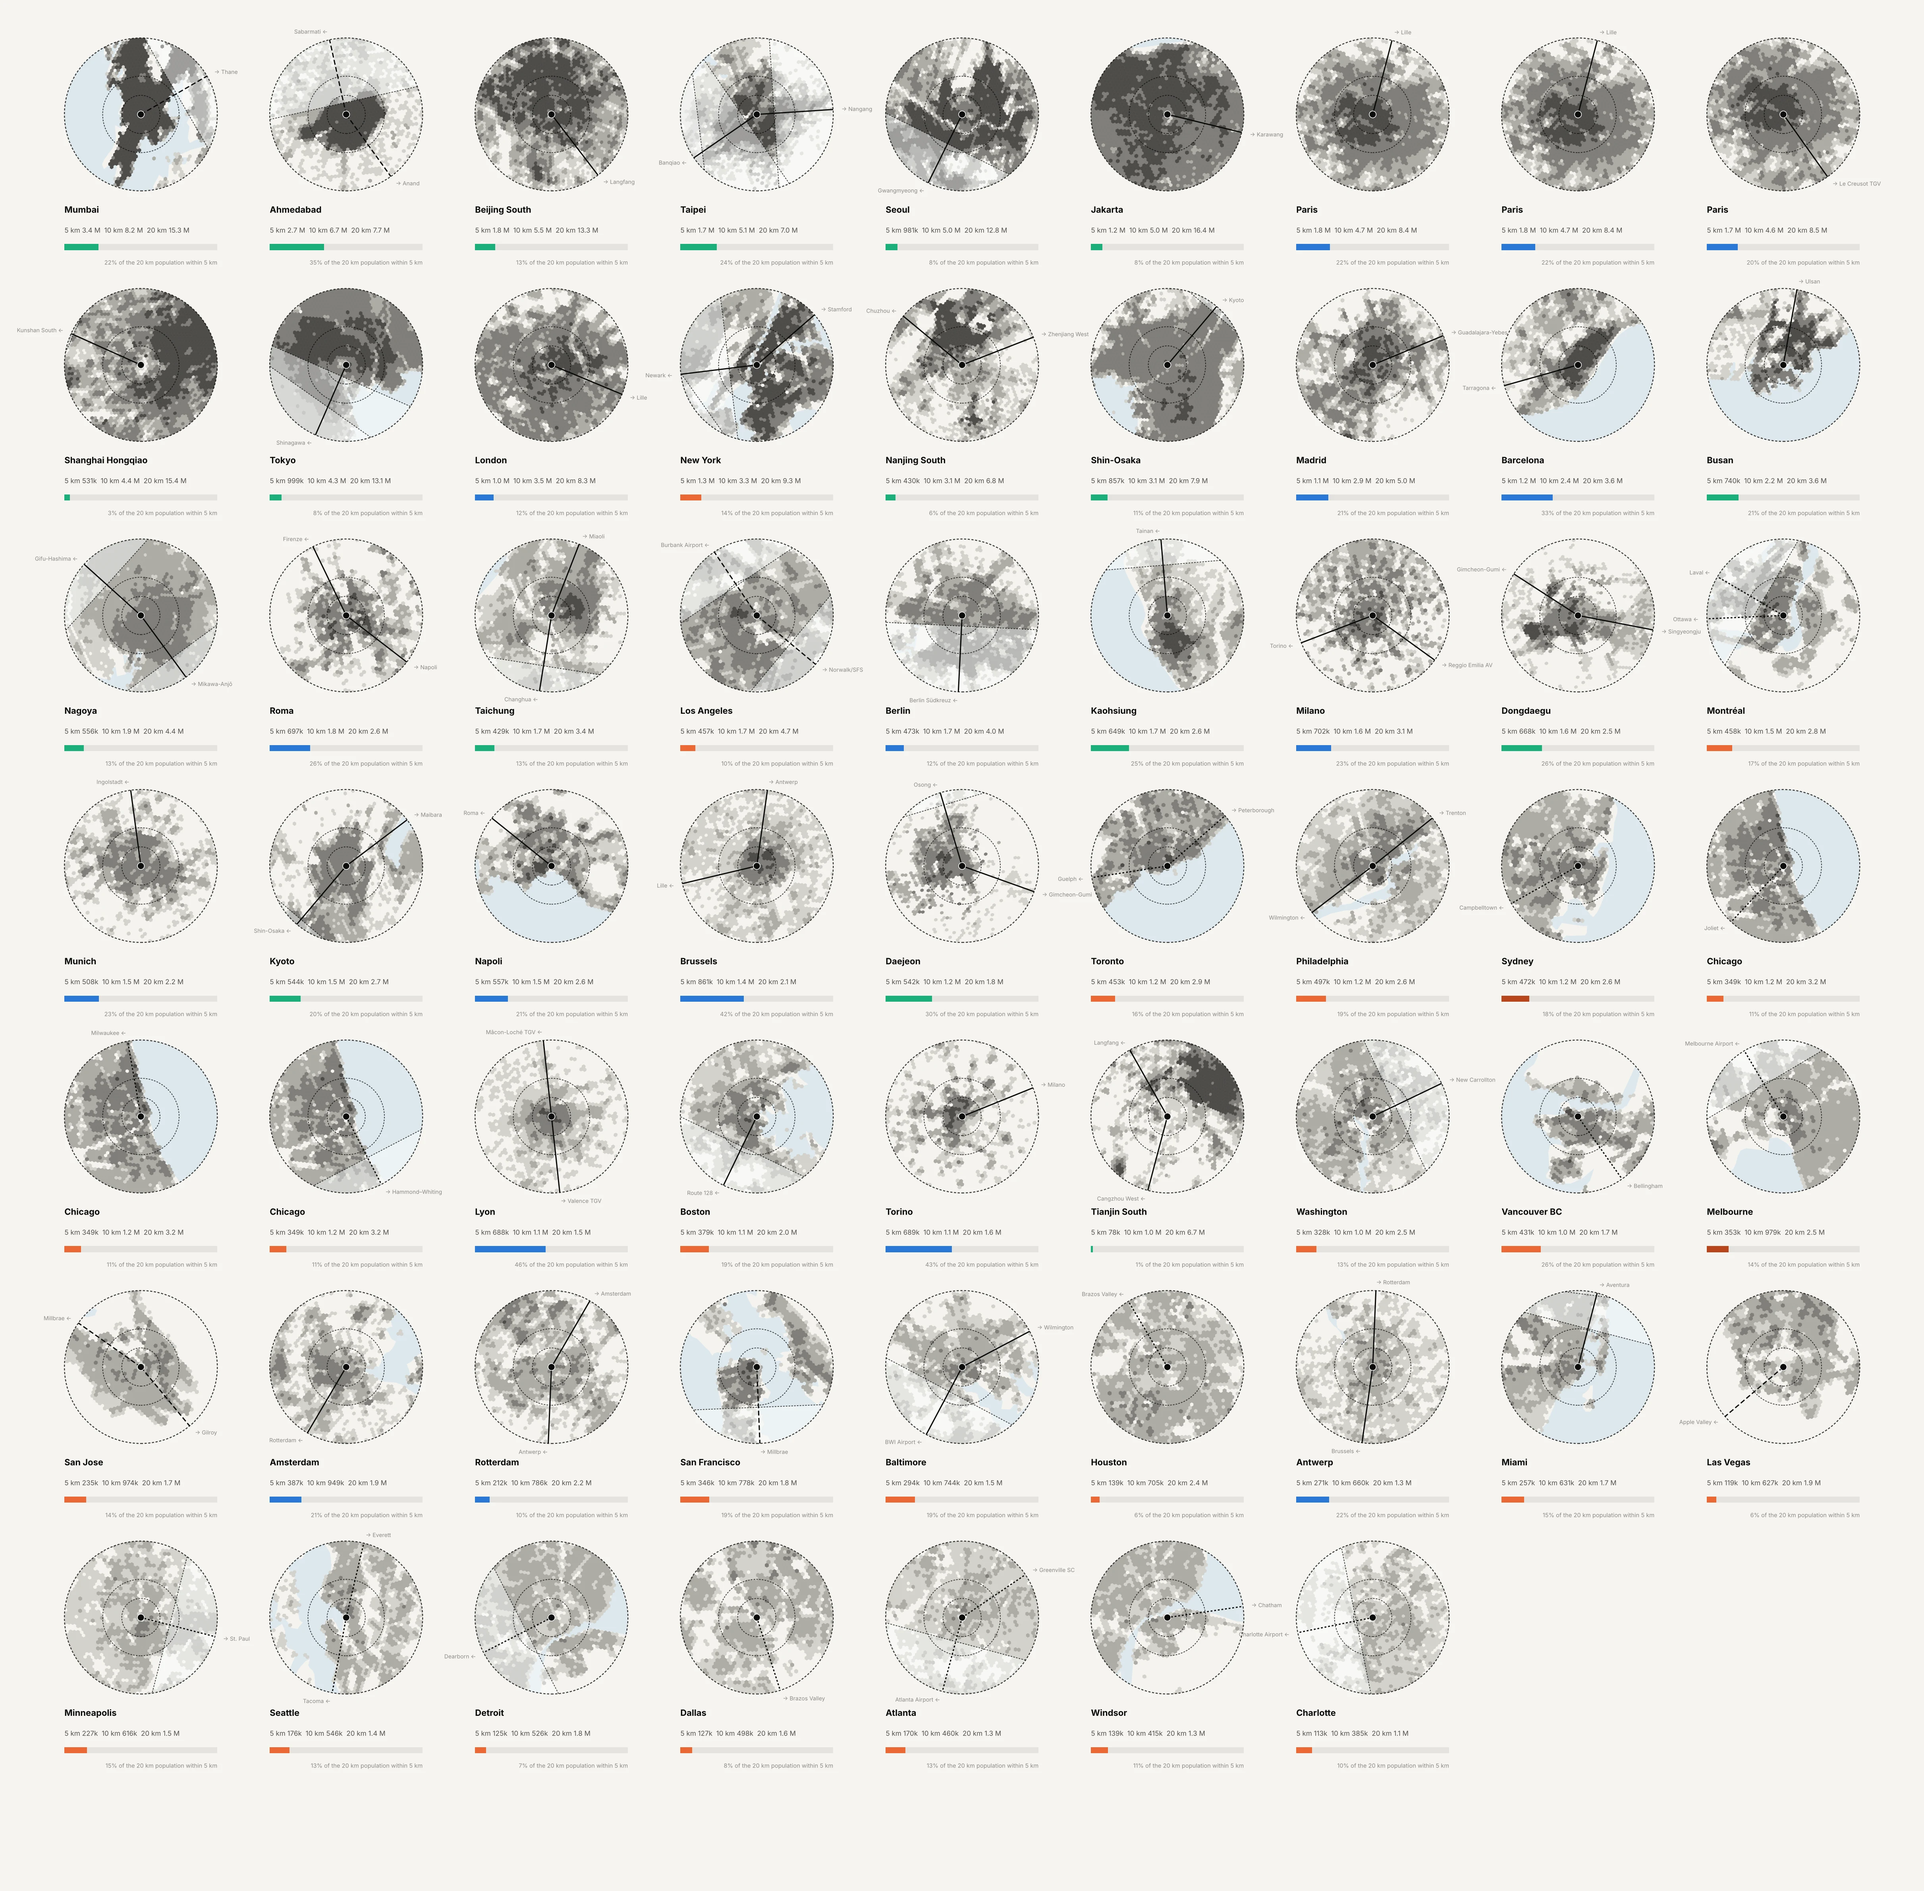
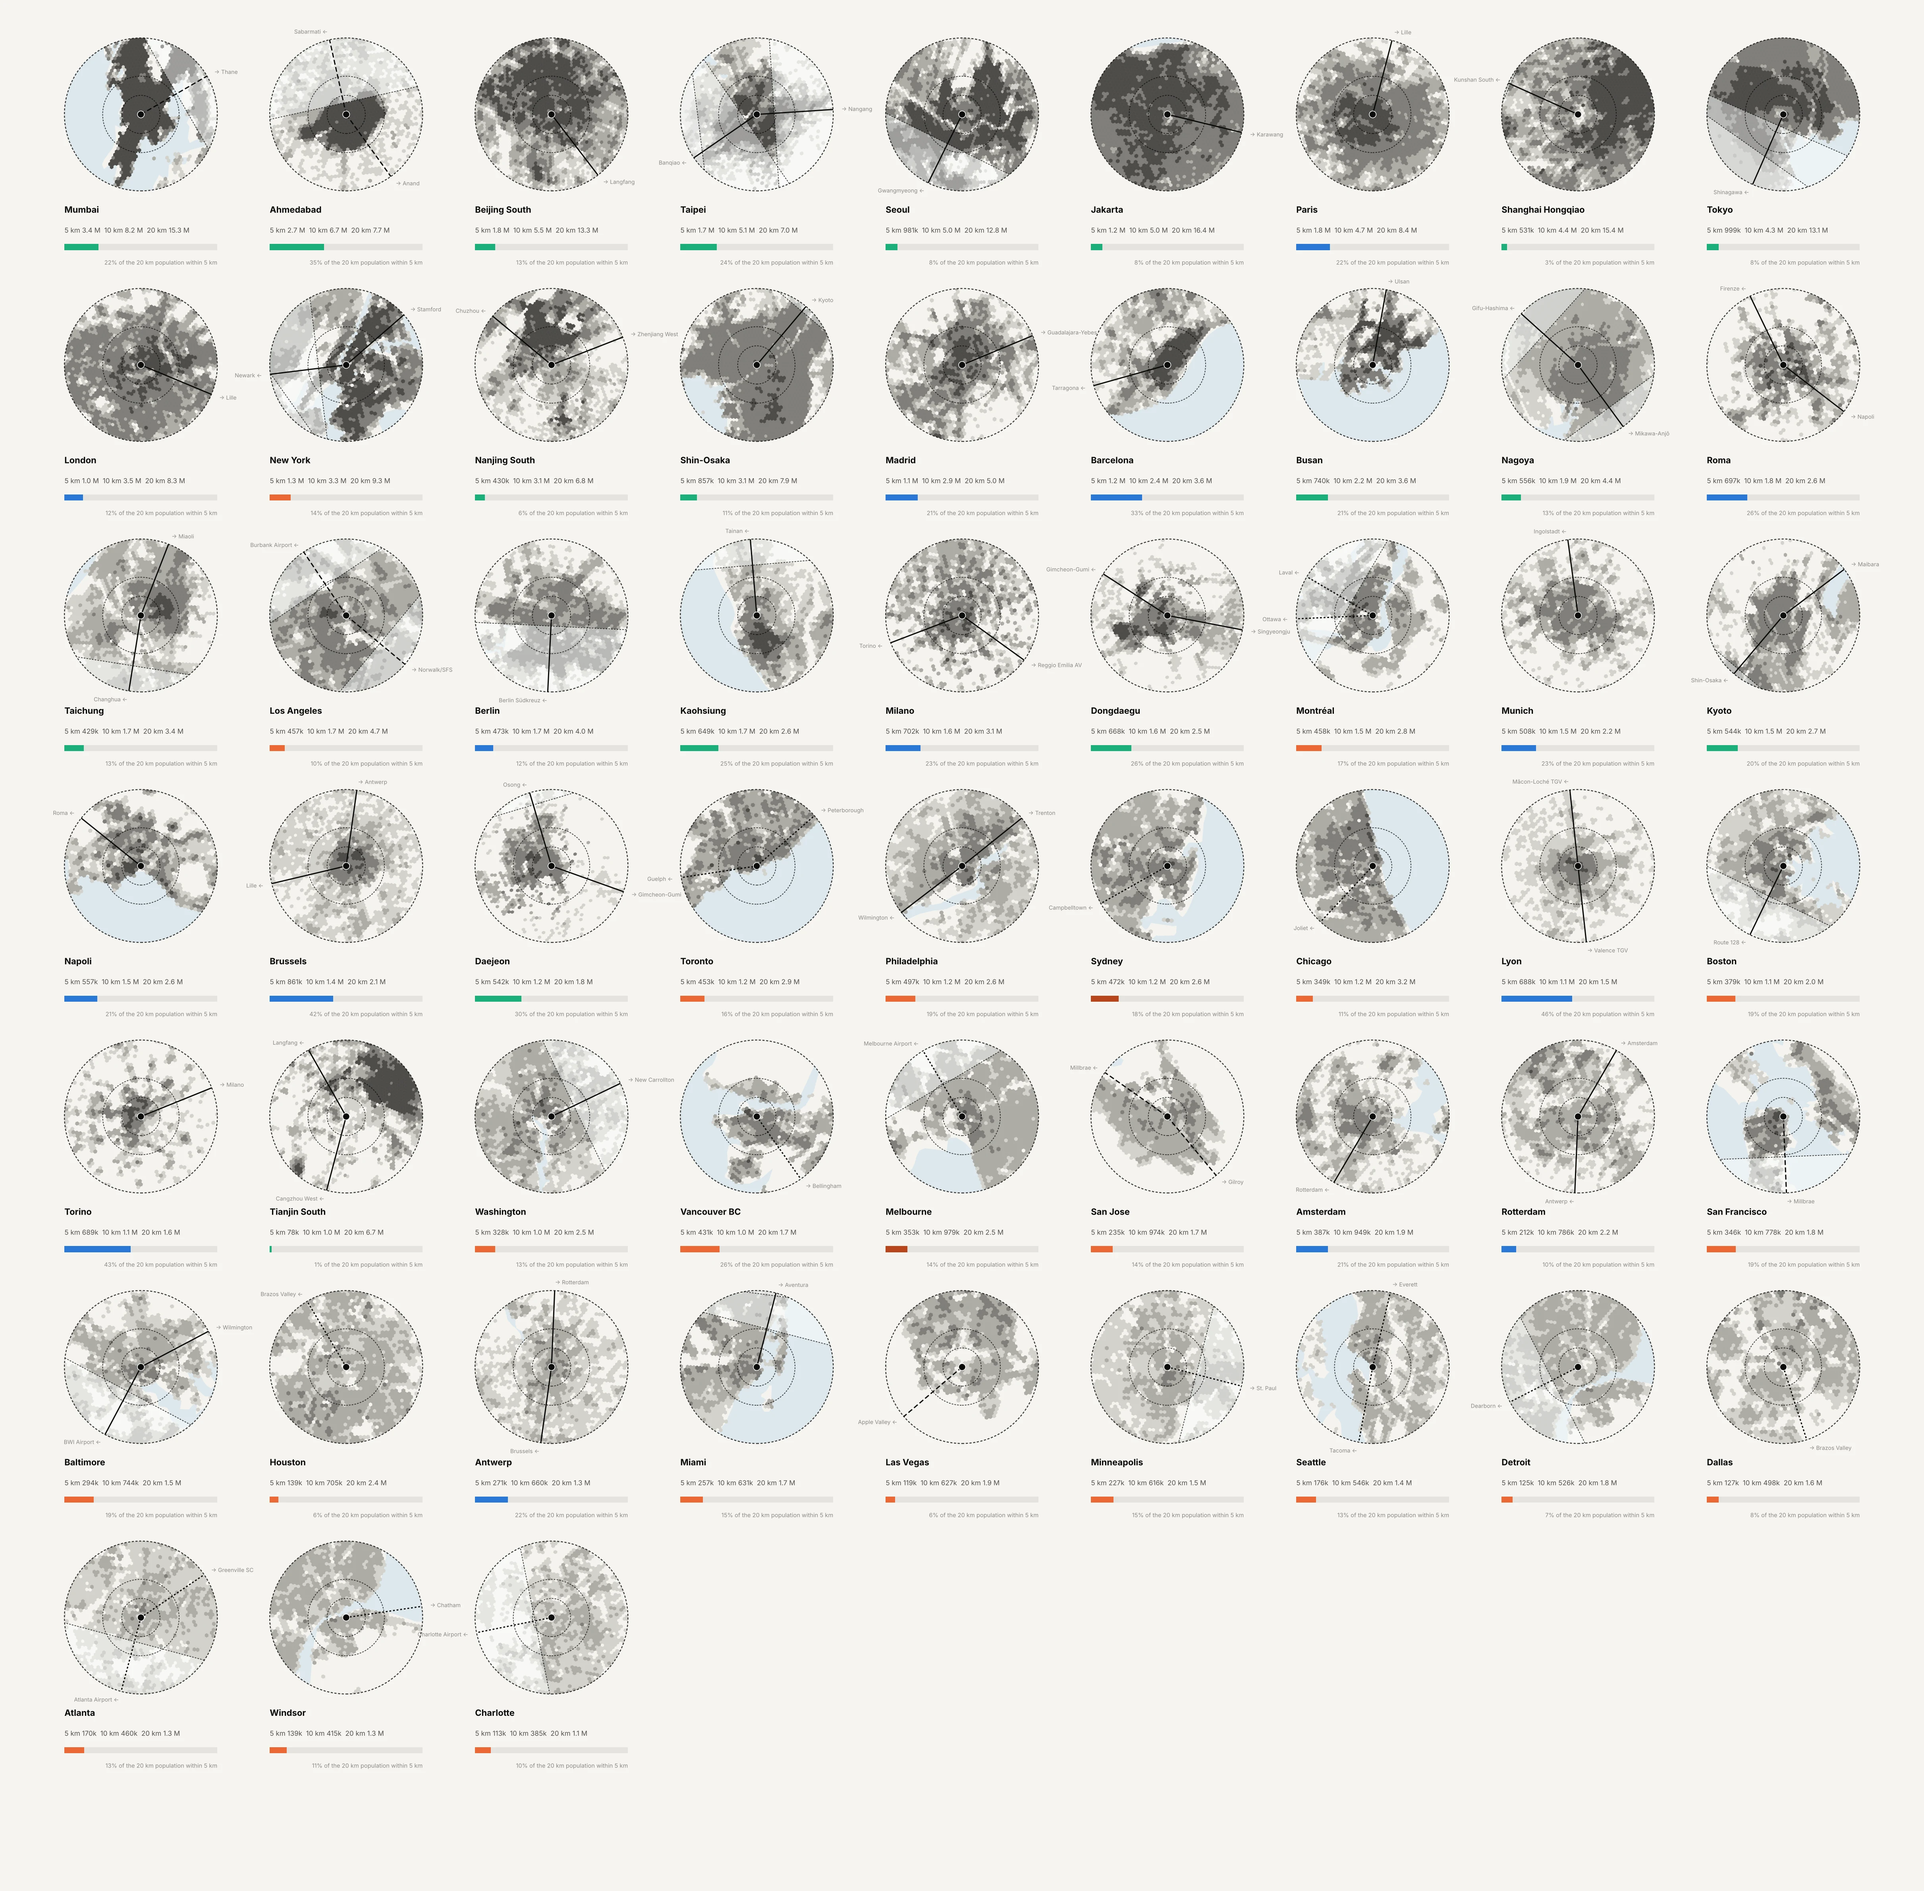
Footprints: one disc per city; footer attribution and #30DayMapChallenge
- City footprint atlas shows each city once (Chicago was on three lines;
  Paris had both Gare du Nord and Gare de Lyon), keeping the busiest station.
- Footprint intro: Houston and Dallas only (Los Angeles has a denser core).
- Footer: code and implementation by Claude.ai; concept, design and
  direction by Alan McConchie; created for #30DayMapChallenge Day 9.

Claude-Session: https://claude.ai/code/session_01PuRksG1LZrL4iDCQFiXr7c

diff --git a/docs/index.html b/docs/index.html
@@ -370,7 +370,7 @@ img { max-width: 100%; }
 
   <section class="stack" aria-labelledby="h-fp">
     <h2 id="h-fp">Station footprints</h2>
-    <p class="intro col">The real 20 km around each main-city station, drawn large and at one scale. Paris, Tokyo, Seoul and Taipei are dark nearly to the 10 km ring; Los Angeles, Houston and Dallas are an even mid-grey sprawl with no dense core.</p>
+    <p class="intro col">The real 20 km around each main-city station, drawn large and at one scale. Paris, Tokyo, Seoul and Taipei are dark nearly to the 10 km ring; Houston and Dallas are an even mid-grey sprawl with no dense core.</p>
     <div class="toolbar">
       <div class="field"><span class="flabel">Zoom</span><div class="frow"><div class="seg" role="group" aria-label="Footprint zoom" id="fpzoom">
         <button type="button" data-zoom="fit" aria-pressed="true">Fit width</button>
@@ -441,7 +441,7 @@ img { max-width: 100%; }
 <footer>
   <span class="fhead">Where would High Speed Rail work in North America?</span>
   <p>Data: population © <a href="https://www.kontur.io/datasets/population-dataset/">Kontur</a> (CC BY 4.0); Meta / CIESIN High Resolution Settlement Layer (CC BY 4.0, via <a href="https://registry.opendata.aws/dataforgood-fb-hrsl/">AWS Open Data</a>); <a href="https://www.worldpop.org/">WorldPop</a> SSP projections (CC BY 4.0); US county projections from <a href="https://doi.org/10.17605/OSF.IO/9YNFC">Hauer et al.</a> (CC BY 3.0); US metro areas, county populations and outlines from the <a href="https://www.census.gov/">US Census Bureau</a>; Canadian metro populations from <a href="https://www150.statcan.gc.ca/">Statistics Canada</a> (Open Government Licence – Canada); Australian from the <a href="https://www.abs.gov.au/">Australian Bureau of Statistics</a> (CC BY 4.0); outlines from <a href="https://www.naturalearthdata.com/">Natural Earth</a> (public domain).</p>
-  <p>Code, data pipeline and method: <a href="https://github.com/mappingmashups/hsr-density-maps">github.com/mappingmashups/hsr-density-maps</a> (MIT licence) · by <a href="https://mappingmashups.net">Alan McConchie</a> · updated <span class="updated"></span></p>
+  <p>Code, data pipeline and method: <a href="https://github.com/mappingmashups/hsr-density-maps">github.com/mappingmashups/hsr-density-maps</a> (MIT licence) · code and implementation by <a href="https://claude.ai">Claude.ai</a>, concept, design, and direction by <a href="https://mappingmashups.net">Alan McConchie</a> · Created for the <a href="https://30daymapchallenge.com/">#30DayMapChallenge</a> Day 9: Urban-rural · updated <span class="updated"></span></p>
 </footer>
 <datalist id="radTicks"><option value="5"></option><option value="10"></option><option value="20"></option><option value="50"></option></datalist>
 <div id="tip" hidden></div>

diff --git a/page/template.html b/page/template.html
@@ -370,7 +370,7 @@ img { max-width: 100%; }
 
   <section class="stack" aria-labelledby="h-fp">
     <h2 id="h-fp">Station footprints</h2>
-    <p class="intro col">The real 20 km around each main-city station, drawn large and at one scale. Paris, Tokyo, Seoul and Taipei are dark nearly to the 10 km ring; Los Angeles, Houston and Dallas are an even mid-grey sprawl with no dense core.</p>
+    <p class="intro col">The real 20 km around each main-city station, drawn large and at one scale. Paris, Tokyo, Seoul and Taipei are dark nearly to the 10 km ring; Houston and Dallas are an even mid-grey sprawl with no dense core.</p>
     <div class="toolbar">
       <div class="field"><span class="flabel">Zoom</span><div class="frow"><div class="seg" role="group" aria-label="Footprint zoom" id="fpzoom">
         <button type="button" data-zoom="fit" aria-pressed="true">Fit width</button>
@@ -441,7 +441,7 @@ img { max-width: 100%; }
 <footer>
   <span class="fhead">Where would High Speed Rail work in North America?</span>
   <p>Data: population © <a href="https://www.kontur.io/datasets/population-dataset/">Kontur</a> (CC BY 4.0); Meta / CIESIN High Resolution Settlement Layer (CC BY 4.0, via <a href="https://registry.opendata.aws/dataforgood-fb-hrsl/">AWS Open Data</a>); <a href="https://www.worldpop.org/">WorldPop</a> SSP projections (CC BY 4.0); US county projections from <a href="https://doi.org/10.17605/OSF.IO/9YNFC">Hauer et al.</a> (CC BY 3.0); US metro areas, county populations and outlines from the <a href="https://www.census.gov/">US Census Bureau</a>; Canadian metro populations from <a href="https://www150.statcan.gc.ca/">Statistics Canada</a> (Open Government Licence – Canada); Australian from the <a href="https://www.abs.gov.au/">Australian Bureau of Statistics</a> (CC BY 4.0); outlines from <a href="https://www.naturalearthdata.com/">Natural Earth</a> (public domain).</p>
-  <p>Code, data pipeline and method: <a href="https://github.com/mappingmashups/hsr-density-maps">github.com/mappingmashups/hsr-density-maps</a> (MIT licence) · by <a href="https://mappingmashups.net">Alan McConchie</a> · updated <span class="updated"></span></p>
+  <p>Code, data pipeline and method: <a href="https://github.com/mappingmashups/hsr-density-maps">github.com/mappingmashups/hsr-density-maps</a> (MIT licence) · code and implementation by <a href="https://claude.ai">Claude.ai</a>, concept, design, and direction by <a href="https://mappingmashups.net">Alan McConchie</a> · Created for the <a href="https://30daymapchallenge.com/">#30DayMapChallenge</a> Day 9: Urban-rural · updated <span class="updated"></span></p>
 </footer>
 <datalist id="radTicks"><option value="5"></option><option value="10"></option><option value="20"></option><option value="50"></option></datalist>
 <div id="tip" hidden></div>

diff --git a/plot_atlas.py b/plot_atlas.py
@@ -163,5 +163,9 @@ if __name__ == "__main__":
     big = [(c["id"], i) for c in CORRIDORS for i, s in enumerate(c["stations"])
            if s[0] in CITY and POP[(c["id"], s[0])]["raw_50"] >= 2.5e6]
     big.sort(key=lambda t: -POP[(t[0], CORR[t[0]]["stations"][t[1]][0])]["raw_10"])
+    # one disc per city: a station on several lines (Chicago) or two stations in one city (Paris Nord and
+    # Gare de Lyon) appears once, as its busiest station (the list is sorted by people within 10 km)
+    seen = set()
+    big = [t for t in big if not (short(CORR[t[0]]["stations"][t[1]][0]) in seen or seen.add(short(CORR[t[0]]["stations"][t[1]][0])))]
     page(big, "Main-city stations compared: what's inside 20 km", SUB + " Sorted by residents within 10 km.",
          os.path.join(OUT, "atlas_cities.png"), per_row=9)
